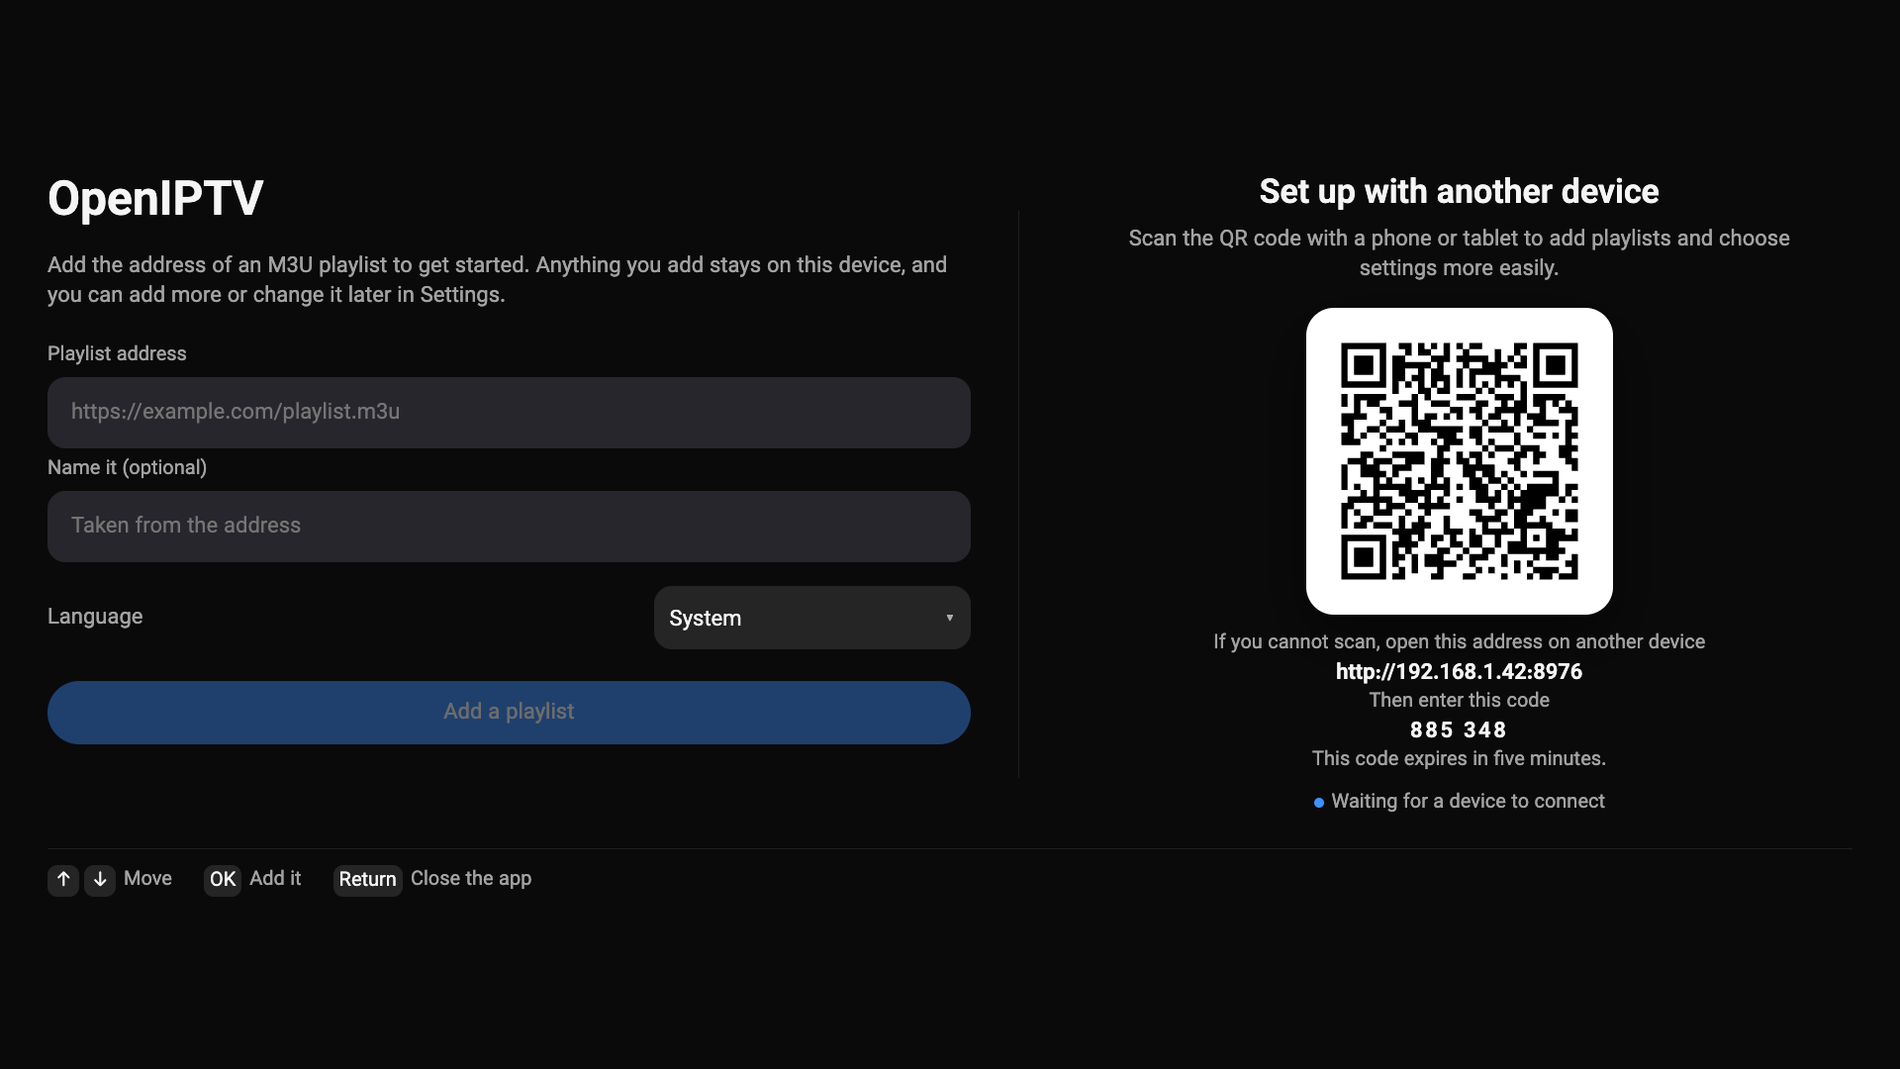
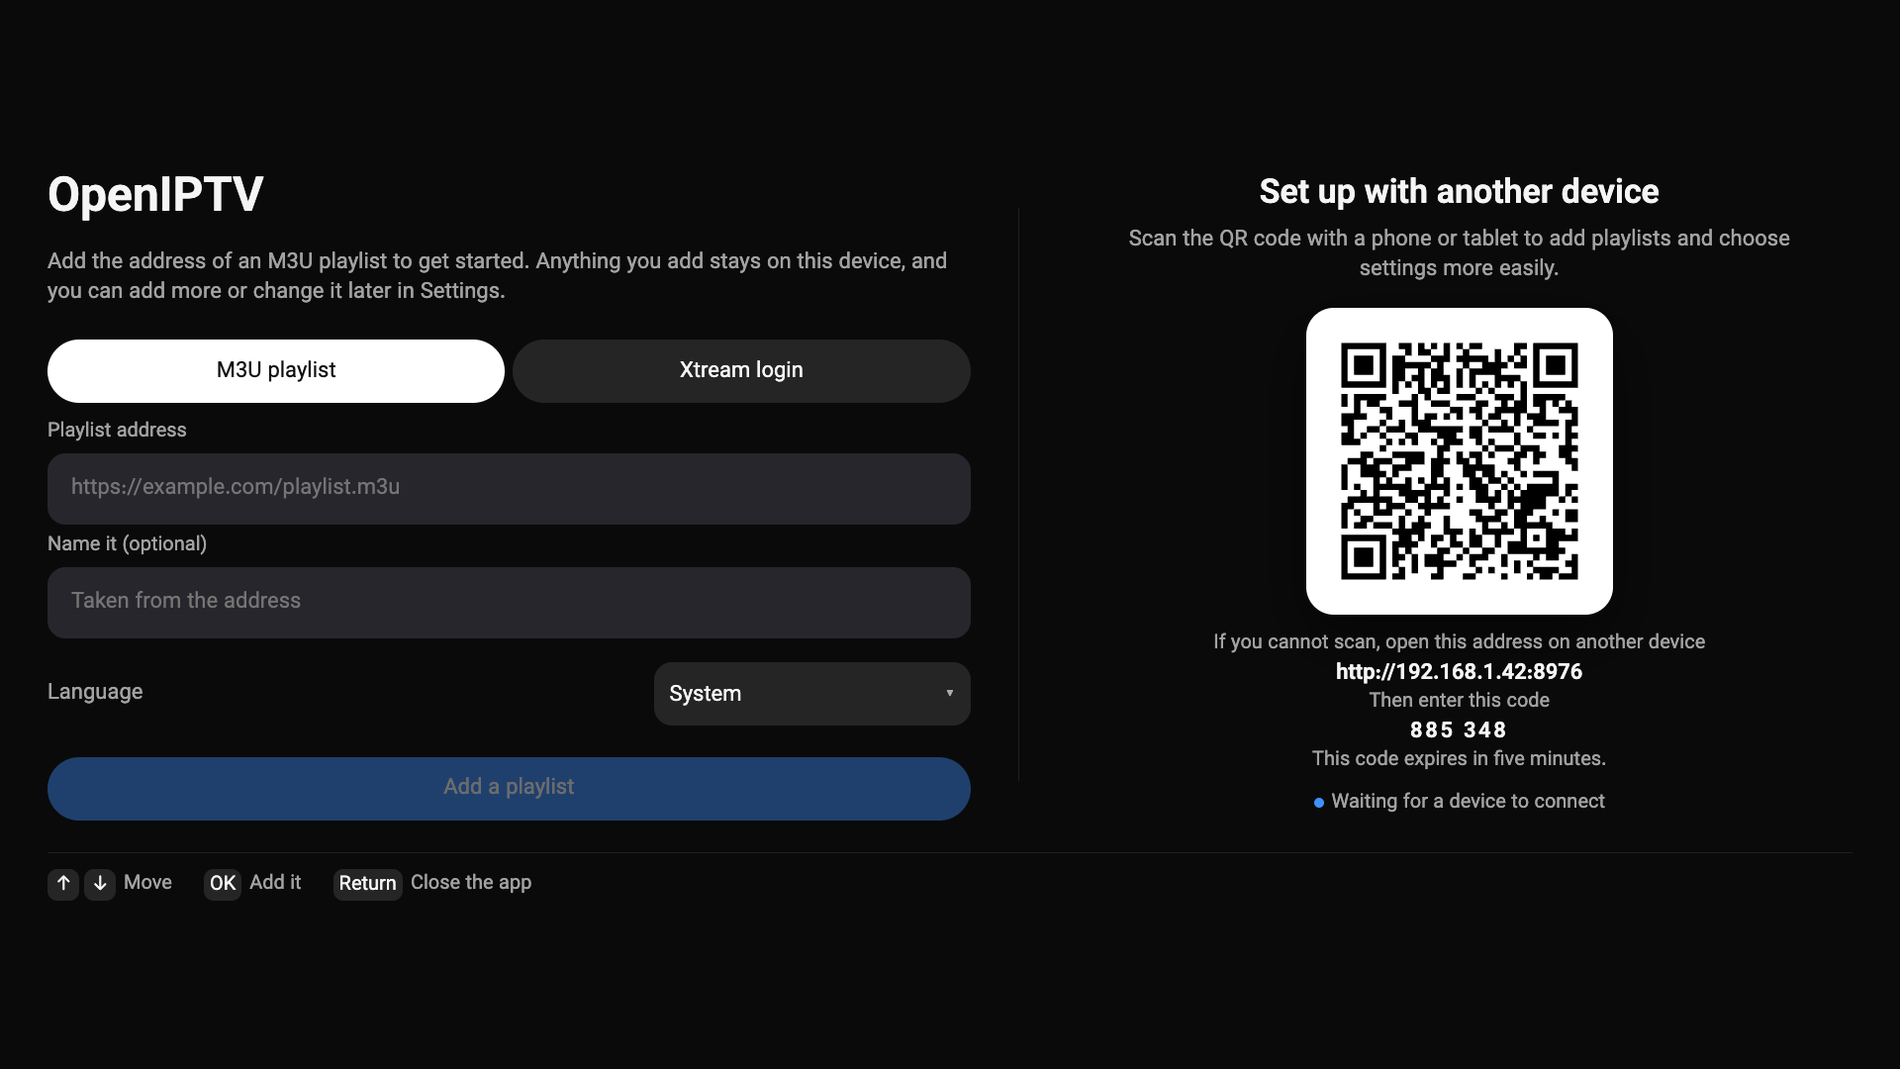
docs: streamline README for visitors
Generated with [Devin](https://devin.ai)

Changed region(s): [[0.0, 0.2139, 0.5312, 0.8556], [0.0312, 0.1528, 0.125, 0.2139]]

diff --git a/tests/harness.test.ts b/tests/harness.test.ts
@@ -1,5 +1,5 @@
 import assert from "node:assert/strict";
-import { mkdirSync, mkdtempSync, rmSync, writeFileSync } from "node:fs";
+import { mkdirSync, mkdtempSync, readFileSync, rmSync, writeFileSync } from "node:fs";
 import { request } from "node:http";
 import { tmpdir } from "node:os";
 import { join } from "node:path";
@@ -99,4 +99,10 @@ test("waits for a requested key transition instead of sleeping", async () => {
   };
   await driver(cdp, 4321).press("ArrowLeft", 37, "window.ready");
   assert.equal(ready, true);
+});
+
+test("shows both Smart Remote pages in the README screenshot", () => {
+  const image = readFileSync(join(process.cwd(), "docs/screenshots/10-smart-remote.png"));
+  assert.equal(image.subarray(1, 4).toString(), "PNG");
+  assert.deepEqual([image.readUInt32BE(16), image.readUInt32BE(20)], [820, 900]);
 });

diff --git a/README.md b/README.md
@@ -7,23 +7,23 @@
 [![Tizen](https://img.shields.io/badge/Tizen-5.5%2B-00a4ef)](https://developer.samsung.com/smarttv/develop/specifications/tv-model-groups.html)
 [![Node](https://img.shields.io/badge/Node-22.18%2B-339933?logo=nodedotjs&logoColor=white)](https://nodejs.org/)
 
-OpenIPTV is an open source IPTV player for Samsung TVs from 2020 onwards. Add your own playlist, then browse and play its channels.
+OpenIPTV is a private, open source IPTV player for Samsung TVs. Add an extended M3U playlist or Xtream login, then browse and play your channels through an interface designed for the television.
 
-OpenIPTV has no accounts, analytics, or project operated backend. Playlist details, preferences, and favourites remain on your device. Playback requests go directly to the playlist, stream, and logo hosts selected by your playlist.
+Your playlists, preferences, and favourites stay on your device. OpenIPTV has no accounts, analytics, advertising, or project operated service.
 
-**[Try OpenIPTV in your browser](https://shayanline.github.io/OpenIPTV)** using the same application build that runs on the television. Use the arrow keys and Enter as the directional pad and OK button.
+> [!TIP]
+> **[Try OpenIPTV in your browser](https://shayanline.github.io/OpenIPTV).** Use the arrow keys and Enter as the directional pad and OK button. If you need a sample, copy the address of the [demo playlist](https://shayanline.github.io/OpenIPTV/demo/nasa.m3u) into the playlist field.
 
-Go directly to [television installation](#install-on-a-samsung-tv), [building from source](#build-and-sign-it-yourself), [playlist sources](#playlist-sources), [Remote access](#remote-access), [remote controls](#remote-control-reference), or [troubleshooting](#troubleshooting).
+> [!IMPORTANT]
+> OpenIPTV is a player and provides no channels or other content. The project is not affiliated with any broadcaster, channel, streaming service, or playlist provider. Make sure you have the right to access what you add.
 
-OpenIPTV supplies no channels or other content and is not affiliated with any broadcaster, channel, streaming service, or playlist provider. Make sure you have the right to access what you add.
-
-## Screenshots
+## See OpenIPTV
 
 ### On the television
 
 |  |  |
 |:--|:--|
-| [<img src="docs/screenshots/01-first-run.png" alt="OpenIPTV setup on a television with playlist entry and setup from another device">](docs/screenshots/01-first-run.png) | [<img src="docs/screenshots/02-channels.png" alt="The Channels panel on a television with Categories and channel rows">](docs/screenshots/02-channels.png) |
+| [<img src="docs/screenshots/01-first-run.png" alt="OpenIPTV setup on a television with M3U, Xtream, and setup from another device">](docs/screenshots/01-first-run.png) | [<img src="docs/screenshots/02-channels.png" alt="The channel panel on a television with categories and channel rows">](docs/screenshots/02-channels.png) |
 | **Set up OpenIPTV** | **Browse channels** |
 | [<img src="docs/screenshots/04-search.png" alt="Search on a television with the query news and matching channels">](docs/screenshots/04-search.png) | [<img src="docs/screenshots/06-settings.png" alt="Settings on a television with the Playback section open">](docs/screenshots/06-settings.png) |
 | **Search channels** | **Change Playback settings** |
@@ -44,165 +44,118 @@ OpenIPTV supplies no channels or other content and is not affiliated with any br
 
 |  |  |
 |:--:|:--:|
-| [<img src="docs/screenshots/09-remote-access.png" alt="Remote access on a phone showing Playlists, Devices, and About" width="300">](docs/screenshots/09-remote-access.png) | [<img src="docs/screenshots/10-smart-remote.png" alt="Remote access on a phone with Smart Remote open" width="300">](docs/screenshots/10-smart-remote.png) |
-| **Manage Playlists and Devices with Remote access** | **Control the television with Smart Remote** |
+| [<img src="docs/screenshots/09-remote-access.png" alt="Remote access on a phone showing Playlists, Devices, and About" width="215">](docs/screenshots/09-remote-access.png) | [<img src="docs/screenshots/10-smart-remote.png" alt="Both Smart Remote pages showing navigation, channel, volume, number, colour, and playback controls" width="410">](docs/screenshots/10-smart-remote.png) |
+| **Manage Playlists and Devices** | **Use every Smart Remote control** |
 
-## Features
+## What you can do
 
-### Playback
+- Browse original playlist categories, manage their visibility, and keep Favourites.
+- Search every channel or tune directly with channel numbers.
+- Resume the last channel and inspect live playback information.
+- Use 17 translated interfaces, including complete right to left layouts for Arabic and Persian.
 
-- Changes channel with Up and Down from the picture in every playback state, including loading and failure states.
-- Shows the playback engine, resolution, codecs, bitrate, network estimate, buffer, frame rate, dropped frames, and adaptive level information.
-
-### Browsing and organisation
-
-- Displays channel names and languages exactly as supplied by the playlist.
-- Keeps favourites, searches the whole playlist, and tunes to a channel number you enter.
-- Supports 17 translated interfaces, system language detection, and complete right to left layouts for Arabic and Persian.
-
-No programme guide or recording features are included.
-
-## Requirements
-
-Use either of these supported environments:
-
-- A Samsung TV from 2020 or later, which runs Tizen 5.5 or later.
-- A current desktop browser.
+OpenIPTV focuses on live viewing, without a programme guide or recording features.
 
 ## Install on a Samsung TV
 
-[TizenBrew Installer Desktop](#tizenbrew-installer-desktop) is the easiest installation route. On Tizen 7 or later, it resigns the released widget for the connected television. Earlier versions use the existing release signature, so televisions not covered by it must follow [Build and sign it yourself](#build-and-sign-it-yourself).
+OpenIPTV supports Samsung TVs from 2020 onwards, running Tizen 5.5 or later. The television and computer used for installation must share the same local network.
+
+> [!TIP]
+> **TizenBrew Installer Desktop is the easiest installation route.** It downloads the latest OpenIPTV release and guides you through installation.
 
 ### Prepare the television
 
-Before installing:
-
 1. Open Apps and press `12345` on the remote.
-2. Turn Developer mode on and enter the IP address of the computer you will install from.
-3. Restart the television. Port 26101 remains closed until the restart finishes.
+2. Turn Developer mode on and enter the computer's IP address.
+3. Restart the television.
 
-### TizenBrew Installer Desktop
+### Install with TizenBrew
 
-[TizenBrew Installer Desktop](https://github.com/reisxd/TizenBrewInstaller/releases/latest) fetches `OpenIPTV.wgt` from the latest GitHub release and installs it on the television.
+1. Open [TizenBrew Installer Desktop](https://github.com/reisxd/TizenBrewInstaller/releases/latest).
+2. Enter the television's IP address from its Network Status screen and connect.
+3. Enter `shayanline/OpenIPTV` as the GitHub repository.
+4. Follow the certificate prompts, install OpenIPTV, and launch it from the television application list.
 
-1. Connect the television to the installer.
-2. Enter `shayanline/OpenIPTV` as the GitHub repository.
-3. Let the installer create or select Samsung certificates when it asks.
-4. Install OpenIPTV and launch it from the television application list.
+> [!NOTE]
+> Tizen 7 and later can resign the released widget for the connected television. Earlier versions may need a locally signed build.
 
-### Build and sign it yourself
+<details>
+<summary>Build and sign OpenIPTV manually</summary>
 
-Install Node 22.18 or later and Tizen Studio. The command line tools are sufficient.
+Install Node 22.18 or later and Tizen Studio. In Certificate Manager, create an author certificate and a Samsung distributor certificate for your television. Install the Samsung Certificate Extension, sign in with a Samsung account, and keep the television on and connected while creating the certificate.
 
-In Certificate Manager, create an author certificate and a Samsung distributor certificate for your television. Call the profile `OpenIPTV`, or set `SIGNING_PROFILE` to the name you choose.
-
-The certificate setup has three requirements:
-
-- Install the Samsung Certificate Extension through Tizen Studio Package Manager. The generic Tizen certificate type signs the widget but is refused by a retail Samsung television.
-- Sign in with a Samsung account while creating the distributor certificate.
-- Keep the television on and connected as prepared above so Certificate Manager can add its identifier to the certificate.
+Call the signing profile `OpenIPTV`, or set `SIGNING_PROFILE` to its name.
 
 ```bash
 git clone https://github.com/shayanline/OpenIPTV.git
 cd OpenIPTV
 npm ci
-TV_IP=192.168.0.10 npm run deploy    # builds, signs, installs, and launches
+TV_IP=192.168.0.10 npm run deploy
 ```
 
-`npm run package` stops after writing `build/OpenIPTV.wgt` for manual installation.
+Run `npm run package` when you only need `build/OpenIPTV.wgt`.
 
-On its first television launch, OpenIPTV offers manual playlist entry and Remote access setup. Scan the QR code to continue on another device, or enter the playlist with the television remote.
+</details>
 
-## Watch in a browser
+## Add playlists
 
-The [browser version](https://shayanline.github.io/OpenIPTV) runs the latest release without installing anything.
+| Source | What to enter |
+|:--|:--|
+| **Extended M3U** | A complete HTTP or HTTPS playlist address. |
+| **Xtream login** | The server address, username, password, and HLS or MPEG TS stream format. |
 
-You can also run the browser version from source:
-
-```bash
-npm ci
-npm run dev      # then open the address it prints
-```
-
-Browser playback uses hls.js instead of the television AVPlay engine. A stream host that refuses cross origin browser requests can therefore fail in the browser while playing correctly on the television.
-
-The hosted page uses HTTPS. Browsers block a playlist or stream served over plain HTTP as mixed content. Local development and television playback do not have that restriction.
-
-The [demo playlist](https://shayanline.github.io/OpenIPTV/demo/nasa.m3u) contains the Creative Commons film *Tears of Steel*. It is an example for the browser demo and is never bundled with the widget or loaded by default.
-
-## Playlist sources
-
-### Extended M3U
-
-OpenIPTV accepts an extended M3U playlist over HTTP or HTTPS. It reads `tvg-id`, `tvg-name`, `tvg-logo`, `group-title`, and `tvg-quality`. Categories follow the order in which the playlist introduces them, and channels without a group appear under Uncategorised.
-
-### Xtream login
-
-Choose Xtream login and enter the server address, username, password, and stream format. OpenIPTV builds the standard M3U Plus address locally. HLS and MPEG TS formats are supported.
-
-Password fields remain masked, and playlist summaries conceal passwords. The television and Remote access interface provide the same creation and editing flow.
-
-### Playlist behaviour
-
-Category visibility belongs to each playlist. Hidden categories can stay out of the channel panel while remaining available in Search and Favourites, or they can be excluded everywhere. Red changes the focused category, while holding Red temporarily reveals or conceals hidden categories.
-
-OpenIPTV caches each playlist on the television for six hours so startup does not wait for another download. Settings, then Playlists, then Refresh ignores that cached copy and downloads the playlist again.
+Save several playlists and activate one at a time. Each playlist keeps its own category visibility, and password values stay concealed in the interface.
 
 ## Remote access
 
-OpenIPTV serves its Remote access interface directly from the television. Keep the application open and connect a phone or tablet to the same trusted local network.
+Remote access is available from the first run screen or Settings, then Remote access. Keep OpenIPTV open and connect a phone or tablet to the same trusted local network, then scan the QR code or enter the displayed address and pairing code.
 
-Scan the QR code or use the displayed address and pairing code. A paired device can add, edit, remove, refresh, and activate playlists. It can also change ordinary settings, clear downloaded cache, manage authorised devices, and control playback.
+A paired device can manage playlists, ordinary settings, application data, authorised devices, and playback. Smart Remote provides navigation, number, colour, channel, volume, and playback controls.
 
-Each paired device receives its own credential. Pairing codes expire, QR secrets work once, and the credential verifier remains on the television. Remove access under Settings, then Remote access.
+<details>
+<summary>Remote button reference</summary>
 
-The interface includes a touch optimised Smart Remote for navigation, playback, channels, volume, numbers, colours, and transport controls. Horizontal gestures move between its two control pages.
-
-## Remote control reference
-
-| Key | Watching | In the channel panel | Searching |
+| Key | Watching | Channel panel | Search |
 |:--|:--|:--|:--|
-| Up, Down | Previous and next channel | Move through the list | Between the field and the results |
-| Left | Open the channel panel | Move toward the category rail, then leave the panel | Move the caret |
-| Right | Hide the title badge | Move toward channels and play at the final stop | Move the caret |
-| OK | Open the channel panel | Play the highlighted channel | Show matches, then play one |
-| Hold OK | Toggle Playback information | No action | No action |
-| Return | Hide what is visible, then offer to close | Step back, then return to the picture | Clear, then leave Search |
-| Ch+, Ch- | Previous and next channel | Previous and next channel | Previous and next channel |
-| 0-9 | Tune to a channel number | Tune to a channel number | Type a digit |
-| Green | Favourite the current channel | Favourite the highlighted channel | Favourite the highlighted channel |
-| Red | No action | Hide or restore the highlighted category | No action |
-| Hold Red | No action | Reveal or conceal hidden categories temporarily | No action |
-| Yellow | Open Settings | Open Settings | Open Settings |
+| <kbd>↑</kbd> <kbd>↓</kbd> | Change channel | Move through the list | Move between the field and results |
+| <kbd>←</kbd> | Open the channel panel | Move toward Categories, then close the panel | Move the caret |
+| <kbd>→</kbd> | Hide the title badge | Move toward channels, then play | Move the caret |
+| <kbd>OK</kbd> | Open the channel panel | Play the highlighted channel | Show matches, then play |
+| Hold <kbd>OK</kbd> | Toggle Playback information | No action | No action |
+| <kbd>Return</kbd> | Close the visible layer | Go back | Clear Search, then close it |
+| <kbd>Ch+</kbd> <kbd>Ch-</kbd> | Change channel | Change channel | Change channel |
+| <kbd>0</kbd> to <kbd>9</kbd> | Tune to a channel number | Tune to a channel number | Type a digit |
+| <kbd>Green</kbd> | Toggle Favourites | Toggle Favourites | Toggle Favourites |
+| <kbd>Red</kbd> | No action | Change category visibility | No action |
+| Hold <kbd>Red</kbd> | No action | Show or conceal hidden categories | No action |
+| <kbd>Yellow</kbd> | Open Settings | Open Settings | Open Settings |
 
-Search and Settings sit in the panel title bar, one press above the first category.
+<kbd>Play</kbd>, <kbd>Pause</kbd>, <kbd>Stop</kbd>, and the track keys work throughout the app.
 
-Play, Pause, Stop, and the track keys work from every screen. Resuming from a pause rejoins the live broadcast. When enabled, the clock remains visible everywhere except Settings.
+</details>
 
-## Settings
+## Help
 
-Press the yellow key from any screen.
+> [!NOTE]
+> Browser security can prevent some providers from playing through the hosted demo even when the same stream works on the television.
 
-- **Appearance** controls language, text size, channel numbers, logos, clock, and alphabetical sorting.
-- **Playback** controls screen fit, resume last channel, compatibility mode, and persistent Playback information.
-- **Playlists** adds, edits, removes, activates, and refreshes playlists, with category search.
-- **Remote access** pairs, renames, and removes authorised devices.
-- **About** contains version, privacy, source, diagnostics, cache clearing, and complete reset controls.
+<details>
+<summary>Common issues</summary>
 
-## Troubleshooting
-
-- **A device cannot open Remote access.** Guest networks often prevent devices from reaching each other. Follow the connection requirements under [Remote access](#remote-access).
-- **An authorised device stopped connecting.** The television may have received a different local address. Open Settings, then Remote access, and pair the device again.
-- **A channel will not play.** OpenIPTV retries after 4, 8, and 15 seconds before stopping. Press Down to move to the next channel while the fault remains visible.
-- **Installation fails with certificate error 118 or -12.** Follow [Build and sign it yourself](#build-and-sign-it-yourself).
-- **A remote key does nothing.** Open Settings, About, Support, Diagnostics, then Remote buttons. A key missing from that screen never reached the application because the television kept it.
-- **A channel shows one frame and stops.** Turn on Compatibility mode under Settings, then Playback. Leave it disabled for healthy streams because repair requires OpenIPTV to fetch the stream playlist itself.
+- **TizenBrew cannot connect.** Repeat [Prepare the television](#prepare-the-television), including the restart, and avoid guest networks that isolate devices.
+- **Installation reports certificate error 118 or -12.** Use the manual signing instructions above.
+- **A playlist address is refused.** Enter a complete HTTP or HTTPS address, or choose Xtream login.
+- **An Xtream channel will not play.** Try the other stream format.
+- **A channel shows one frame and stops.** Turn on Compatibility mode under Settings, then Playback.
+- **A remote key does nothing.** Open Settings, About, Support, Diagnostics, then Remote buttons to confirm that the television sent it to the app.
 - **Logos are slow to appear.** Turn Show channel logos off under Settings, then Appearance.
+
+</details>
 
 ## Contributing
 
-Issues and pull requests are welcome. Run `npm run check` before opening one. Read [CONTRIBUTING.md](CONTRIBUTING.md) for the development workflow, [the design notes](docs/design.md) for the interface decisions, and [the testing notes](docs/testing.md) for the television compatibility checks.
+Issues and pull requests are welcome. Read [CONTRIBUTING.md](CONTRIBUTING.md) for the development workflow, [the design notes](docs/design.md) for interface decisions, and [the testing notes](docs/testing.md) for compatibility checks. Report security problems through [SECURITY.md](SECURITY.md).
 
 ## Licence
 
-OpenIPTV uses the MIT licence in [LICENSE](LICENSE). Runtime projects included in the built application are listed in [THIRD-PARTY-NOTICES.md](public/THIRD-PARTY-NOTICES.md), with their licence texts beside it.
+OpenIPTV uses the MIT licence in [LICENSE](LICENSE). Runtime projects included in the application are listed in [THIRD-PARTY-NOTICES.md](public/THIRD-PARTY-NOTICES.md).

diff --git a/docs/testing.md b/docs/testing.md
@@ -242,7 +242,7 @@ Run these checks after changing the management socket, pairing, welcome screen o
 2. Scan the QR code from a phone on the same network, name the phone, add a valid playlist and confirm that the television leaves first setup only after channels load.
 3. Reset the test installation, type the displayed local address on the phone, enter the six digit code and complete the same first setup path.
 4. Close OpenIPTV and confirm that the phone loses its connection, then reopen it and confirm that the remembered phone reconnects without pairing again.
-5. Revoke the phone under Settings, then Phone access and confirm that its next request returns to pairing while another remembered phone continues to work.
+5. Revoke the phone under Settings, then Remote access and confirm that its next request returns to pairing while another remembered phone continues to work.
 6. Move the television to WiFi, repeat address discovery and QR pairing, then confirm that a previous browser origin is asked to pair again when the address changes.
 7. Close OpenIPTV after a phone request and reopen it immediately, then confirm that port 8976 binds again because the previous worker closed its socket before termination.
 8. Run `npm run tv:on-set` before and after pairing, then compare CPU at rest. The management worker must not create a sustained increase large enough to move the existing rest result outside ordinary run variation.
